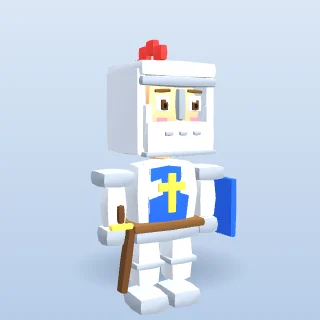
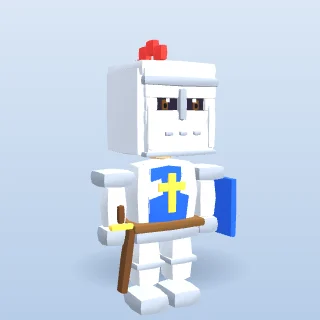
Knight helm: narrow dark eye slit, no blush, no visible skin; redraw knight classic preview, v306

Changed region(s): [[0.4375, 0.2188, 0.6875, 0.4062], [0.4375, 0.4375, 0.4688, 0.4688]]

diff --git a/play.html b/play.html
@@ -4389,17 +4389,23 @@ const AVATARS = [
         const skin = 0xE9AC80, armor = 0xC2C9D2, armorD = 0x8E97A3, tabard = 0x2255CC, gold = 0xF5C542, plume = 0xE53935;
         const a = blockKidBase(skin), H = a.head, g = a.group;
         a.face = addPixelFace(H, BLK_HEAD, BLK_HEAD / 2 + 0.003,
-          { iris: 0x5A3A20, pupil: 0x2A1A10, brow: 0x6B4A2A, mouth: 0x8A3A30, blush: 0xEE8E8E });
-        // ⛑ a real knight's helm: eyes peek out of a T-shaped visor gap; a nose guard and a
-        // faceguard with breathing slots cover the nose and mouth
+          { iris: 0x5A3A20, pupil: 0x2A1A10, brow: 0x6B4A2A, mouth: 0x8A3A30 });   // no blush: the helm is closed
+        // ⛑ a friendly, fully closed knight's helm: a visor covers the whole face and only a
+        // narrow dark eye slit is left open, with a little eye glint inside (no skin, no cheeks);
+        // a nose guard and a faceguard with breathing slots cover the nose and mouth
         box(H, 0.72, 0.16, 0.72, armor, 0, 0.34, 0);
         box(H, 0.72, 0.7, 0.12, armor, 0, 0.0, -0.31);
         [-1, 1].forEach(s => {
           box(H, 0.1, 0.7, 0.64, armor, s * 0.32, 0.0, -0.02);
-          box(H, 0.08, 0.36, 0.08, armor, s * 0.28, -0.12, 0.31);          // cheek guards
+          box(H, 0.08, 0.36, 0.08, armor, s * 0.28, -0.12, 0.35);          // cheek guards
         });
-        box(H, 0.7, 0.09, 0.09, armorD, 0, 0.24, 0.31);                    // brow guard
-        box(H, 0.08, 0.26, 0.08, armorD, 0, 0.06, 0.34);                    // nose guard between the eyes
+        box(H, 0.66, 0.13, 0.05, armor, 0, 0.17, 0.345);                    // visor above the slit (tucks under the brow guard)
+        box(H, 0.66, 0.115, 0.05, armor, 0, -0.0425, 0.345);                // visor below the slit (tucks behind the faceguard)
+        [-1, 1].forEach(s => box(H, 0.11, 0.11, 0.05, armor, s * 0.27, 0.06, 0.345));     // slit ends
+        box(H, 0.48, 0.12, 0.008, 0x231C2B, 0, 0.06, 0.335);                // dark eye slit (eyes glint through)
+        box(H, 0.66, 0.14, 0.05, armor, 0, 0.27, 0.335);                   // forehead plate: no skin between the cap and the brow
+        box(H, 0.7, 0.09, 0.09, armorD, 0, 0.24, 0.35);                     // brow guard
+        box(H, 0.08, 0.26, 0.08, armorD, 0, 0.06, 0.36);                    // nose guard between the eyes
         box(H, 0.64, 0.26, 0.1, armor, 0, -0.2, 0.33);                      // faceguard over the mouth and chin
         [-0.13, 0, 0.13].forEach(x => box(H, 0.07, 0.035, 0.03, armorD, x, -0.17, 0.385));   // breathing slots
         box(H, 0.66, 0.05, 0.11, armorD, 0, -0.33, 0.33);                   // faceguard rim
@@ -21155,9 +21161,9 @@ function refreshAvatarPreviews() {
   const suffix = classicHeroes() ? '-classic' : '';
   document.querySelectorAll('#avatarGrid img[data-avatar-id]').forEach(img => {
     const base = 'avatars/previews/' + img.dataset.avatarId;
-    const src = base + suffix + '.webp?v=305';
+    const src = base + suffix + '.webp?v=306';
     if (img.getAttribute('src') === src) return;
-    img.onerror = () => { img.onerror = null; img.src = base + '-classic.webp?v=305'; };
+    img.onerror = () => { img.onerror = null; img.src = base + '-classic.webp?v=306'; };
     img.src = src;
   });
 }

diff --git a/avatars/previews/README.md b/avatars/previews/README.md
@@ -5,10 +5,11 @@ and procedural character builders. They replace full GLB downloads and a second
 WebGL renderer in the character picker. In-game models and animation are unchanged.
 
 The 22 standard portraits total 170,380 bytes. Including all 22 classic portraits,
-the total is 314,950 bytes (the classic set was redrawn in v303 to match Queen Fox and
+the total is 314,740 bytes (the classic set was redrawn in v303 to match Queen Fox and
 the dragon: soft rounded blocks, 3D eyes, no dark outlines; those two pictures are unchanged;
 v304 adds small soft mouths, Leo without top tufts and the Knight's closed helm; v305 drops
-the shoulders below the neck line). Previously the picker requested 22 GLB URLs on page
+the shoulders below the neck line;
+v306 closes the Knight's visor to a narrow eye slit with no blush). Previously the picker requested 22 GLB URLs on page
 load; the 16 existing files total 116,965,964 bytes (six requests had no model).
 These are asset sizes, not a measured tablet speedup.
 
